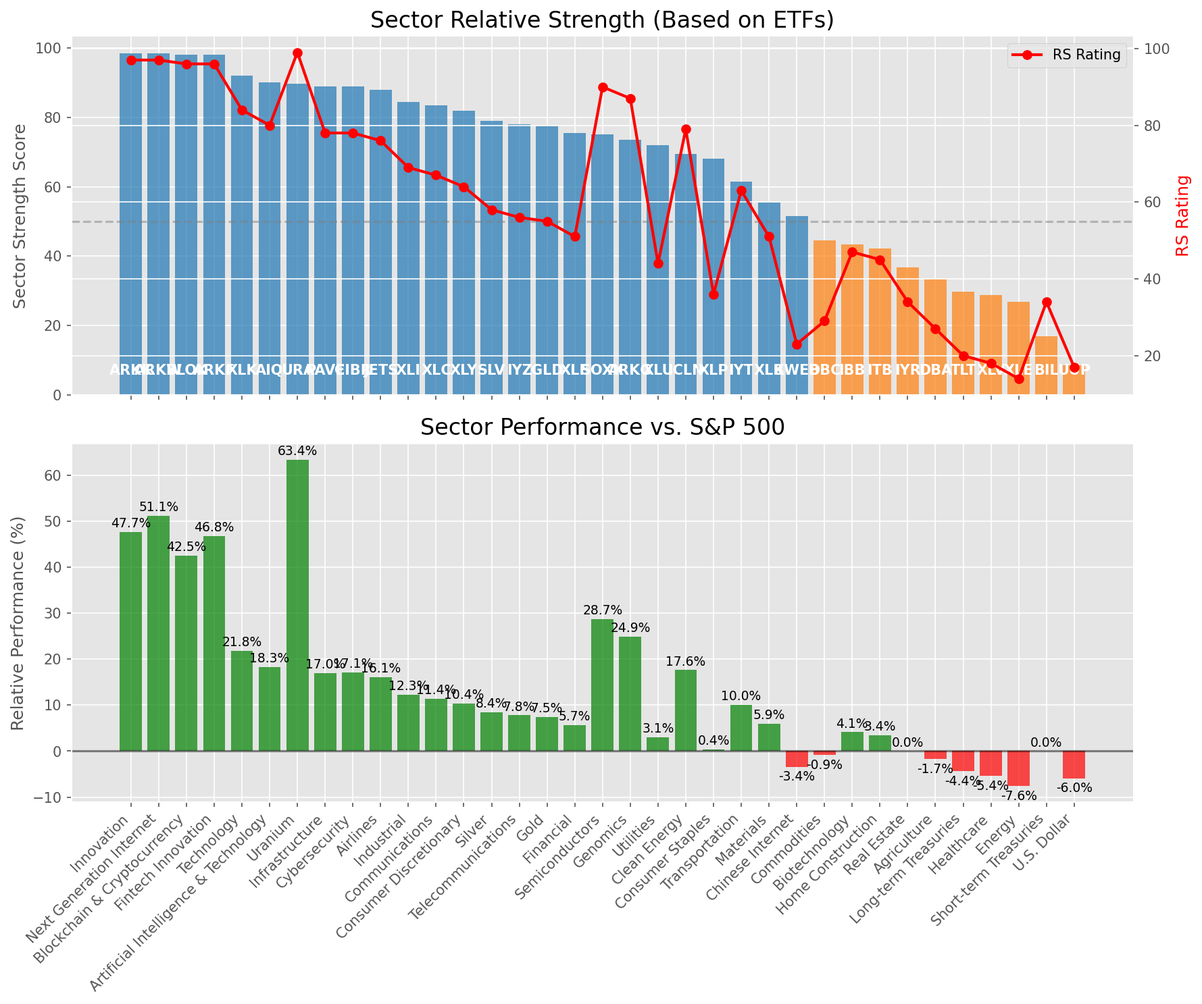
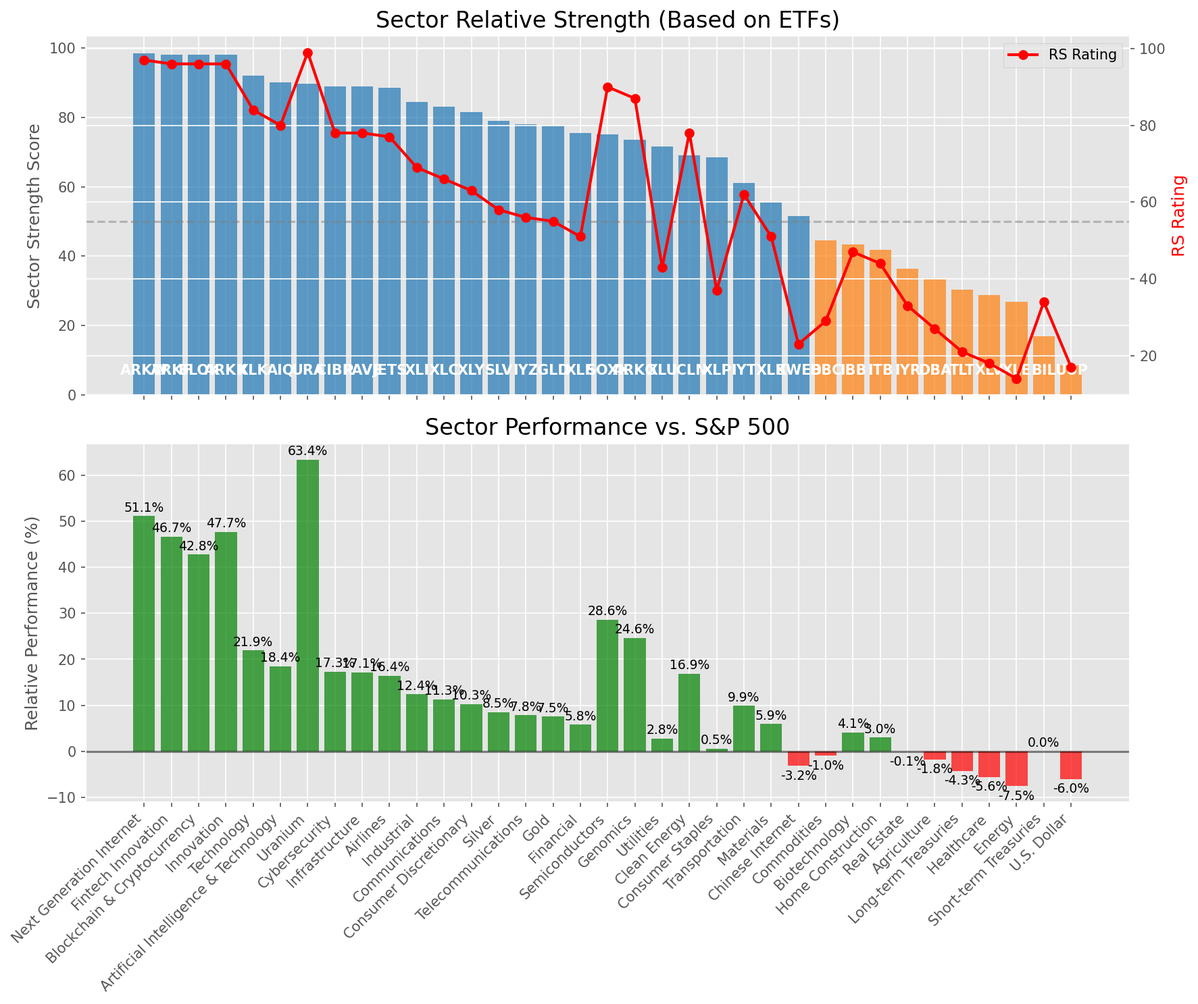
Add market report for 2025-07-02

diff --git a/oneil_relative_strength_report_2025-07-02.md b/oneil_relative_strength_report_2025-07-02.md
@@ -9,11 +9,11 @@
 | Metric | Value |
 |--------|-------|
 | **Market Valuation** | **Overvalued** |
-| **Current Ratio** | 10.19 |
+| **Current Ratio** | 10.20 |
 | **Historical Mean** | 9.37 |
 | **Standard Deviation** | 0.47 |
 | **Z-Score (StdDev from Mean)** | 1.64 |
-| **Total Market Cap** | $305.28 trillion |
+| **Total Market Cap** | $305.51 trillion |
 | **GDP** | $29.96 trillion |
 
 ## **Market Insights**
@@ -49,41 +49,41 @@ Based on William O'Neil's Relative Strength Methodology
 
 | ETF | Strength | RS Rating | Performance | Above Key MAs | Trend | Sector |
 |-----|----------|-----------|-------------|--------------|-------|--------|
-| [ARKK](https://www.tradingview.com/chart/?symbol=ARKK) | 98.5 | 97.0 | 47.68% | 10d ✓, 50d ✓, 200d ✓ | ↗ | Innovation |
-| [ARKW](https://www.tradingview.com/chart/?symbol=ARKW) | 98.5 | 97.0 | 51.14% | 10d ✓, 50d ✓, 200d ✓ | ↗ | Next Generation Internet |
-| [BLOK](https://www.tradingview.com/chart/?symbol=BLOK) | 98.0 | 96.0 | 42.49% | 10d ✓, 50d ✓, 200d ✓ | ↗ | Blockchain & Cryptocurrency |
-| [ARKF](https://www.tradingview.com/chart/?symbol=ARKF) | 98.0 | 96.0 | 46.83% | 10d ✓, 50d ✓, 200d ✓ | ↗ | Fintech Innovation |
-| [XLK](https://www.tradingview.com/chart/?symbol=XLK) | 92.0 | 84.0 | 21.77% | 10d ✓, 50d ✓, 200d ✓ | ↗ | Technology |
-| [AIQ](https://www.tradingview.com/chart/?symbol=AIQ) | 90.0 | 80.0 | 18.26% | 10d ✓, 50d ✓, 200d ✓ | ↗ | Artificial Intelligence & Technology |
+| [ARKW](https://www.tradingview.com/chart/?symbol=ARKW) | 98.5 | 97.0 | 51.12% | 10d ✓, 50d ✓, 200d ✓ | ↗ | Next Generation Internet |
+| [ARKF](https://www.tradingview.com/chart/?symbol=ARKF) | 98.0 | 96.0 | 46.68% | 10d ✓, 50d ✓, 200d ✓ | ↗ | Fintech Innovation |
+| [BLOK](https://www.tradingview.com/chart/?symbol=BLOK) | 98.0 | 96.0 | 42.77% | 10d ✓, 50d ✓, 200d ✓ | ↗ | Blockchain & Cryptocurrency |
+| [ARKK](https://www.tradingview.com/chart/?symbol=ARKK) | 98.0 | 96.0 | 47.66% | 10d ✓, 50d ✓, 200d ✓ | ↗ | Innovation |
+| [XLK](https://www.tradingview.com/chart/?symbol=XLK) | 92.0 | 84.0 | 21.94% | 10d ✓, 50d ✓, 200d ✓ | ↗ | Technology |
+| [AIQ](https://www.tradingview.com/chart/?symbol=AIQ) | 90.0 | 80.0 | 18.44% | 10d ✓, 50d ✓, 200d ✓ | ↗ | Artificial Intelligence & Technology |
 | [URA](https://www.tradingview.com/chart/?symbol=URA) | 89.6 | 99.0 | 63.39% | 10d ✗, 50d ✓, 200d ✓ | ↗ | Uranium |
-| [PAVE](https://www.tradingview.com/chart/?symbol=PAVE) | 89.0 | 78.0 | 16.96% | 10d ✓, 50d ✓, 200d ✓ | ↗ | Infrastructure |
-| [CIBR](https://www.tradingview.com/chart/?symbol=CIBR) | 89.0 | 78.0 | 17.11% | 10d ✓, 50d ✓, 200d ✓ | ↗ | Cybersecurity |
-| [JETS](https://www.tradingview.com/chart/?symbol=JETS) | 88.0 | 76.0 | 16.10% | 10d ✓, 50d ✓, 200d ✓ | ↗ | Airlines |
-| [XLI](https://www.tradingview.com/chart/?symbol=XLI) | 84.5 | 69.0 | 12.28% | 10d ✓, 50d ✓, 200d ✓ | ↗ | Industrial |
-| [XLC](https://www.tradingview.com/chart/?symbol=XLC) | 83.5 | 67.0 | 11.37% | 10d ✓, 50d ✓, 200d ✓ | ↗ | Communications |
-| [XLY](https://www.tradingview.com/chart/?symbol=XLY) | 82.0 | 64.0 | 10.41% | 10d ✓, 50d ✓, 200d ✓ | ↗ | Consumer Discretionary |
-| [SLV](https://www.tradingview.com/chart/?symbol=SLV) | 79.0 | 58.0 | 8.42% | 10d ✓, 50d ✓, 200d ✓ | ↗ | Silver |
-| [IYZ](https://www.tradingview.com/chart/?symbol=IYZ) | 78.0 | 56.0 | 7.79% | 10d ✓, 50d ✓, 200d ✓ | ↗ | Telecommunications |
-| [GLD](https://www.tradingview.com/chart/?symbol=GLD) | 77.5 | 55.0 | 7.47% | 10d ✓, 50d ✓, 200d ✓ | ↗ | Gold |
-| [XLF](https://www.tradingview.com/chart/?symbol=XLF) | 75.5 | 51.0 | 5.66% | 10d ✓, 50d ✓, 200d ✓ | ↗ | Financial |
-| [SOXX](https://www.tradingview.com/chart/?symbol=SOXX) | 75.0 | 90.0 | 28.68% | 10d ✓, 50d ✓, 200d ✓ | ↘ | Semiconductors |
-| [ARKG](https://www.tradingview.com/chart/?symbol=ARKG) | 73.5 | 87.0 | 24.88% | 10d ✓, 50d ✓, 200d ✓ | ↘ | Genomics |
-| [XLU](https://www.tradingview.com/chart/?symbol=XLU) | 72.0 | 44.0 | 3.06% | 10d ✓, 50d ✓, 200d ✓ | ↗ | Utilities |
-| [ICLN](https://www.tradingview.com/chart/?symbol=ICLN) | 69.5 | 79.0 | 17.62% | 10d ✓, 50d ✓, 200d ✓ | ↘ | Clean Energy |
-| [XLP](https://www.tradingview.com/chart/?symbol=XLP) | 68.0 | 36.0 | 0.40% | 10d ✓, 50d ✓, 200d ✓ | ↗ | Consumer Staples |
-| [IYT](https://www.tradingview.com/chart/?symbol=IYT) | 61.5 | 63.0 | 10.02% | 10d ✓, 50d ✓, 200d ✓ | ↘ | Transportation |
-| [XLB](https://www.tradingview.com/chart/?symbol=XLB) | 55.5 | 51.0 | 5.91% | 10d ✓, 50d ✓, 200d ✓ | ↘ | Materials |
-| [KWEB](https://www.tradingview.com/chart/?symbol=KWEB) | 51.6 | 23.0 | -3.44% | 10d ✗, 50d ✓, 200d ✓ | ↗ | Chinese Internet |
-| [DBC](https://www.tradingview.com/chart/?symbol=DBC) | 44.5 | 29.0 | -0.89% | 10d ✓, 50d ✓, 200d ✓ | ↘ | Commodities |
-| [IBB](https://www.tradingview.com/chart/?symbol=IBB) | 43.3 | 47.0 | 4.14% | 10d ✓, 50d ✓, 200d ✗ | ↘ | Biotechnology |
-| [ITB](https://www.tradingview.com/chart/?symbol=ITB) | 42.3 | 45.0 | 3.41% | 10d ✓, 50d ✓, 200d ✗ | ↘ | Home Construction |
-| [IYR](https://www.tradingview.com/chart/?symbol=IYR) | 36.8 | 34.0 | 0.02% | 10d ✓, 50d ✓, 200d ✗ | ↘ | Real Estate |
-| [DBA](https://www.tradingview.com/chart/?symbol=DBA) | 33.5 | 27.0 | -1.71% | 10d ✗, 50d ✗, 200d ✗ | ↗ | Agriculture |
-| [TLT](https://www.tradingview.com/chart/?symbol=TLT) | 29.8 | 20.0 | -4.37% | 10d ✓, 50d ✓, 200d ✗ | ↘ | Long-term Treasuries |
-| [XLV](https://www.tradingview.com/chart/?symbol=XLV) | 28.8 | 18.0 | -5.39% | 10d ✓, 50d ✓, 200d ✗ | ↘ | Healthcare |
-| [XLE](https://www.tradingview.com/chart/?symbol=XLE) | 26.8 | 14.0 | -7.58% | 10d ✓, 50d ✓, 200d ✗ | ↘ | Energy |
+| [CIBR](https://www.tradingview.com/chart/?symbol=CIBR) | 89.0 | 78.0 | 17.32% | 10d ✓, 50d ✓, 200d ✓ | ↗ | Cybersecurity |
+| [PAVE](https://www.tradingview.com/chart/?symbol=PAVE) | 89.0 | 78.0 | 17.11% | 10d ✓, 50d ✓, 200d ✓ | ↗ | Infrastructure |
+| [JETS](https://www.tradingview.com/chart/?symbol=JETS) | 88.5 | 77.0 | 16.39% | 10d ✓, 50d ✓, 200d ✓ | ↗ | Airlines |
+| [XLI](https://www.tradingview.com/chart/?symbol=XLI) | 84.5 | 69.0 | 12.40% | 10d ✓, 50d ✓, 200d ✓ | ↗ | Industrial |
+| [XLC](https://www.tradingview.com/chart/?symbol=XLC) | 83.0 | 66.0 | 11.34% | 10d ✓, 50d ✓, 200d ✓ | ↗ | Communications |
+| [XLY](https://www.tradingview.com/chart/?symbol=XLY) | 81.5 | 63.0 | 10.27% | 10d ✓, 50d ✓, 200d ✓ | ↗ | Consumer Discretionary |
+| [SLV](https://www.tradingview.com/chart/?symbol=SLV) | 79.0 | 58.0 | 8.52% | 10d ✓, 50d ✓, 200d ✓ | ↗ | Silver |
+| [IYZ](https://www.tradingview.com/chart/?symbol=IYZ) | 78.0 | 56.0 | 7.84% | 10d ✓, 50d ✓, 200d ✓ | ↗ | Telecommunications |
+| [GLD](https://www.tradingview.com/chart/?symbol=GLD) | 77.5 | 55.0 | 7.54% | 10d ✓, 50d ✓, 200d ✓ | ↗ | Gold |
+| [XLF](https://www.tradingview.com/chart/?symbol=XLF) | 75.5 | 51.0 | 5.77% | 10d ✓, 50d ✓, 200d ✓ | ↗ | Financial |
+| [SOXX](https://www.tradingview.com/chart/?symbol=SOXX) | 75.0 | 90.0 | 28.61% | 10d ✓, 50d ✓, 200d ✓ | ↘ | Semiconductors |
+| [ARKG](https://www.tradingview.com/chart/?symbol=ARKG) | 73.5 | 87.0 | 24.60% | 10d ✓, 50d ✓, 200d ✓ | ↘ | Genomics |
+| [XLU](https://www.tradingview.com/chart/?symbol=XLU) | 71.5 | 43.0 | 2.76% | 10d ✓, 50d ✓, 200d ✓ | ↗ | Utilities |
+| [ICLN](https://www.tradingview.com/chart/?symbol=ICLN) | 69.0 | 78.0 | 16.88% | 10d ✓, 50d ✓, 200d ✓ | ↘ | Clean Energy |
+| [XLP](https://www.tradingview.com/chart/?symbol=XLP) | 68.5 | 37.0 | 0.53% | 10d ✓, 50d ✓, 200d ✓ | ↗ | Consumer Staples |
+| [IYT](https://www.tradingview.com/chart/?symbol=IYT) | 61.0 | 62.0 | 9.90% | 10d ✓, 50d ✓, 200d ✓ | ↘ | Transportation |
+| [XLB](https://www.tradingview.com/chart/?symbol=XLB) | 55.5 | 51.0 | 5.94% | 10d ✓, 50d ✓, 200d ✓ | ↘ | Materials |
+| [KWEB](https://www.tradingview.com/chart/?symbol=KWEB) | 51.6 | 23.0 | -3.17% | 10d ✗, 50d ✓, 200d ✓ | ↗ | Chinese Internet |
+| [DBC](https://www.tradingview.com/chart/?symbol=DBC) | 44.5 | 29.0 | -0.98% | 10d ✓, 50d ✓, 200d ✓ | ↘ | Commodities |
+| [IBB](https://www.tradingview.com/chart/?symbol=IBB) | 43.3 | 47.0 | 4.11% | 10d ✓, 50d ✓, 200d ✗ | ↘ | Biotechnology |
+| [ITB](https://www.tradingview.com/chart/?symbol=ITB) | 41.8 | 44.0 | 2.99% | 10d ✓, 50d ✓, 200d ✗ | ↘ | Home Construction |
+| [IYR](https://www.tradingview.com/chart/?symbol=IYR) | 36.3 | 33.0 | -0.10% | 10d ✓, 50d ✓, 200d ✗ | ↘ | Real Estate |
+| [DBA](https://www.tradingview.com/chart/?symbol=DBA) | 33.5 | 27.0 | -1.78% | 10d ✗, 50d ✗, 200d ✗ | ↗ | Agriculture |
+| [TLT](https://www.tradingview.com/chart/?symbol=TLT) | 30.3 | 21.0 | -4.27% | 10d ✓, 50d ✓, 200d ✗ | ↘ | Long-term Treasuries |
+| [XLV](https://www.tradingview.com/chart/?symbol=XLV) | 28.8 | 18.0 | -5.57% | 10d ✓, 50d ✓, 200d ✗ | ↘ | Healthcare |
+| [XLE](https://www.tradingview.com/chart/?symbol=XLE) | 26.8 | 14.0 | -7.52% | 10d ✓, 50d ✓, 200d ✗ | ↘ | Energy |
 | [BIL](https://www.tradingview.com/chart/?symbol=BIL) | 17.0 | 34.0 | 0.02% | 10d ✗, 50d ✗, 200d ✗ | ↘ | Short-term Treasuries |
-| [UUP](https://www.tradingview.com/chart/?symbol=UUP) | 8.5 | 17.0 | -5.95% | 10d ✗, 50d ✗, 200d ✗ | ↘ | U.S. Dollar |
+| [UUP](https://www.tradingview.com/chart/?symbol=UUP) | 8.5 | 17.0 | -6.02% | 10d ✗, 50d ✗, 200d ✗ | ↘ | U.S. Dollar |
 
 ### **Sector ETF Performance Interpretation**
 
@@ -98,131 +98,126 @@ This table shows the relative strength metrics for different market sectors base
 
 ### **Current Sector Leadership**
 
-The current market leadership is coming from the following sectors: **Innovation, Next Generation Internet, Blockchain & Cryptocurrency**.
+The current market leadership is coming from the following sectors: **Next Generation Internet, Fintech Innovation, Blockchain & Cryptocurrency**.
 
-The **Innovation** sector (represented by **ARKK**) is showing particularly strong relative strength with an RS rating of 97.0 and performance of 47.68% vs. the S&P 500. This sector is trading above its 10-day, 50-day, 200-day moving average(s). Investors should consider focusing on high RS stocks within these leading sectors for potential outperformance.
+The **Next Generation Internet** sector (represented by **ARKW**) is showing particularly strong relative strength with an RS rating of 97.0 and performance of 51.12% vs. the S&P 500. This sector is trading above its 10-day, 50-day, 200-day moving average(s). Investors should consider focusing on high RS stocks within these leading sectors for potential outperformance.
 
 ---
 
 ## **Buy Recommendations**
 
-The following 53 stocks show exceptional relative strength:
+The following 56 stocks show exceptional relative strength:
 
 | RS Rating | Buy Score | Current Price | Chart | Name | Ticker |
 |-----------|-----------|---------------|-------|------|--------|
-| 100 | 100 | $97.44 | [Chart](https://www.tradingview.com/chart/?symbol=HOOD) | Robinhood Markets, Inc. Class A Common Stock | HOOD |
-| 100 | 100 | $144.17 | [Chart](https://www.tradingview.com/chart/?symbol=LMB) | Limbach Holdings, Inc Common Stock | LMB |
-| 100 | 100 | $153.21 | [Chart](https://www.tradingview.com/chart/?symbol=CLS) | Celestica, Inc. | CLS |
-| 100 | 100 | $172.62 | [Chart](https://www.tradingview.com/chart/?symbol=SEZL) | Sezzle Inc. Common Stock | SEZL |
-| 100 | 100 | $271.79 | [Chart](https://www.tradingview.com/chart/?symbol=DAVE) | Dave Inc. Class A Common Stock | DAVE |
-| 99 | 100 | $220.97 | [Chart](https://www.tradingview.com/chart/?symbol=JBL) | Jabil Inc. | JBL |
-| 99 | 100 | $75.13 | [Chart](https://www.tradingview.com/chart/?symbol=ODD) | ODDITY Tech Ltd. Class A Ordinary Shares | ODD |
-| 99 | 100 | $43.88 | [Chart](https://www.tradingview.com/chart/?symbol=FARO) | Faro Technologies Inc | FARO |
-| 99 | 100 | $343.47 | [Chart](https://www.tradingview.com/chart/?symbol=CVNA) | Carvana Co. | CVNA |
-| 98 | 100 | $324.19 | [Chart](https://www.tradingview.com/chart/?symbol=RCL) | Royal Caribbean Group | RCL |
-| 97 | 100 | $273.38 | [Chart](https://www.tradingview.com/chart/?symbol=CRS) | Carpenter Technology Corp | CRS |
-| 96 | 100 | $38.12 | [Chart](https://www.tradingview.com/chart/?symbol=AS) | Amer Sports, Inc. | AS |
-| 95 | 100 | $21.28 | [Chart](https://www.tradingview.com/chart/?symbol=MAG) | MAG Silver Corp. | MAG |
-| 94 | 100 | $45.07 | [Chart](https://www.tradingview.com/chart/?symbol=DRS) | Leonardo DRS, Inc. Common Stock | DRS |
-| 94 | 100 | $73.02 | [Chart](https://www.tradingview.com/chart/?symbol=URBN) | Urban Outfitters Inc | URBN |
-| 93 | 100 | $52.64 | [Chart](https://www.tradingview.com/chart/?symbol=BBW) | Build-A-Bear Workshop, Inc. | BBW |
-| 93 | 100 | $57.73 | [Chart](https://www.tradingview.com/chart/?symbol=IBKR) | Interactive Brokers Group, Inc. Class A Common Stock | IBKR |
-| 93 | 100 | $66.97 | [Chart](https://www.tradingview.com/chart/?symbol=RYTM) | Rhythm Pharmaceuticals, Inc. Common Stock | RYTM |
-| 93 | 100 | $17.74 | [Chart](https://www.tradingview.com/chart/?symbol=DAN) | Dana Incorporated | DAN |
-| 93 | 100 | $101.25 | [Chart](https://www.tradingview.com/chart/?symbol=SANM) | Sanmina  Corp | SANM |
-| 92 | 100 | $247.00 | [Chart](https://www.tradingview.com/chart/?symbol=WWD) | Woodward, Inc. | WWD |
-| 92 | 100 | $42.16 | [Chart](https://www.tradingview.com/chart/?symbol=KD) | Kyndryl Holdings, Inc. | KD |
-| 91 | 100 | $237.16 | [Chart](https://www.tradingview.com/chart/?symbol=DASH) | DoorDash, Inc. Class A Common Stock | DASH |
-| 90 | 100 | $62.20 | [Chart](https://www.tradingview.com/chart/?symbol=IBIT) | iShares Bitcoin Trust ETF | IBIT |
-| 90 | 100 | $104.81 | [Chart](https://www.tradingview.com/chart/?symbol=JCI) | Johnson Controls International plc | JCI |
-| 90 | 100 | $65.41 | [Chart](https://www.tradingview.com/chart/?symbol=CAKE) | Cheesecake Factory (The) | CAKE |
-| 89 | 100 | $25.52 | [Chart](https://www.tradingview.com/chart/?symbol=KAR) | OPENLANE, Inc | KAR |
-| 89 | 100 | $27.41 | [Chart](https://www.tradingview.com/chart/?symbol=SRAD) | Sportradar Group AG Class A Ordinary Shares | SRAD |
-| 88 | 99 | $132.89 | [Chart](https://www.tradingview.com/chart/?symbol=NTES) | NetEase, inc. | NTES |
-| 87 | 99 | $155.00 | [Chart](https://www.tradingview.com/chart/?symbol=COOP) | Mr. Cooper Group Inc. Common Stock | COOP |
-| 88 | 98 | $85.37 | [Chart](https://www.tradingview.com/chart/?symbol=SLNO) | Soleno Therapeutics, Inc. Common Stock | SLNO |
-| 86 | 97 | $219.19 | [Chart](https://www.tradingview.com/chart/?symbol=COF) | Capital One Financial | COF |
-| 86 | 97 | $282.36 | [Chart](https://www.tradingview.com/chart/?symbol=VEEV) | Veeva Systems Inc. | VEEV |
-| 84 | 97 | $44.15 | [Chart](https://www.tradingview.com/chart/?symbol=EXEL) | Exelixis Inc | EXEL |
-| 87 | 96 | $48.59 | [Chart](https://www.tradingview.com/chart/?symbol=SIL) | Global X Silver Miners ETF (NEW) | SIL |
-| 86 | 96 | $250.81 | [Chart](https://www.tradingview.com/chart/?symbol=WTS) | Watts Water Technologies, Inc. Class A | WTS |
-| 83 | 96 | $29.02 | [Chart](https://www.tradingview.com/chart/?symbol=DB) | Deutsche Bank Aktiengesellschaft | DB |
-| 83 | 96 | $182.18 | [Chart](https://www.tradingview.com/chart/?symbol=EAT) | Brinker International, Inc. | EAT |
-| 82 | 96 | $92.10 | [Chart](https://www.tradingview.com/chart/?symbol=SNEX) | StoneX Group Inc. Common Stock | SNEX |
-| 83 | 94 | $224.34 | [Chart](https://www.tradingview.com/chart/?symbol=BAP) | Credicorp LTD | BAP |
-| 83 | 94 | $76.70 | [Chart](https://www.tradingview.com/chart/?symbol=CTVA) | Corteva, Inc. Common Stock | CTVA |
-| 83 | 94 | $5672.71 | [Chart](https://www.tradingview.com/chart/?symbol=BKNG) | Booking Holdings Inc. Common Stock | BKNG |
-| 81 | 94 | $21.12 | [Chart](https://www.tradingview.com/chart/?symbol=KT) | KT Corp. | KT |
-| 83 | 93 | $106.27 | [Chart](https://www.tradingview.com/chart/?symbol=PSMT) | Pricesmart Inc | PSMT |
-| 83 | 93 | $59.79 | [Chart](https://www.tradingview.com/chart/?symbol=NTR) | Nutrien Ltd. Common Shares | NTR |
-| 82 | 93 | $291.62 | [Chart](https://www.tradingview.com/chart/?symbol=JPM) | JPMorgan Chase & Co. | JPM |
-| 80 | 93 | $29.08 | [Chart](https://www.tradingview.com/chart/?symbol=CAE) | CAE INC | CAE |
-| 82 | 92 | $50.73 | [Chart](https://www.tradingview.com/chart/?symbol=GH) | Guardant Health, Inc. Common Stock | GH |
-| 81 | 92 | $184.09 | [Chart](https://www.tradingview.com/chart/?symbol=ITA) | iShares U.S. Aerospace & Defense ETF | ITA |
-| 80 | 92 | $86.31 | [Chart](https://www.tradingview.com/chart/?symbol=TPR) | Tapestry, Inc. Common Stock | TPR |
-| 81 | 91 | $139.68 | [Chart](https://www.tradingview.com/chart/?symbol=PPA) | Invesco Aerospace & Defense ETF | PPA |
-| 81 | 91 | $111.24 | [Chart](https://www.tradingview.com/chart/?symbol=SPMO) | Invesco S&P 500 Momentum ETF | SPMO |
-| 81 | 91 | $91.76 | [Chart](https://www.tradingview.com/chart/?symbol=SEIC) | SEI Investments Co | SEIC |
+| 100 | 100 | $172.30 | [Chart](https://www.tradingview.com/chart/?symbol=SEZL) | Sezzle Inc. Common Stock | SEZL |
+| 100 | 100 | $145.77 | [Chart](https://www.tradingview.com/chart/?symbol=LMB) | Limbach Holdings, Inc Common Stock | LMB |
+| 100 | 100 | $154.90 | [Chart](https://www.tradingview.com/chart/?symbol=CLS) | Celestica, Inc. | CLS |
+| 100 | 100 | $270.03 | [Chart](https://www.tradingview.com/chart/?symbol=DAVE) | Dave Inc. Class A Common Stock | DAVE |
+| 100 | 100 | $97.98 | [Chart](https://www.tradingview.com/chart/?symbol=HOOD) | Robinhood Markets, Inc. Class A Common Stock | HOOD |
+| 99 | 100 | $343.39 | [Chart](https://www.tradingview.com/chart/?symbol=CVNA) | Carvana Co. | CVNA |
+| 99 | 100 | $75.11 | [Chart](https://www.tradingview.com/chart/?symbol=ODD) | ODDITY Tech Ltd. Class A Ordinary Shares | ODD |
+| 99 | 100 | $221.89 | [Chart](https://www.tradingview.com/chart/?symbol=JBL) | Jabil Inc. | JBL |
+| 99 | 100 | $43.92 | [Chart](https://www.tradingview.com/chart/?symbol=FARO) | Faro Technologies Inc | FARO |
+| 98 | 100 | $326.10 | [Chart](https://www.tradingview.com/chart/?symbol=RCL) | Royal Caribbean Group | RCL |
+| 97 | 100 | $275.05 | [Chart](https://www.tradingview.com/chart/?symbol=CRS) | Carpenter Technology Corp | CRS |
+| 97 | 100 | $43.28 | [Chart](https://www.tradingview.com/chart/?symbol=KTOS) | Kratos Defense & Security Solutions, Inc. | KTOS |
+| 96 | 100 | $38.19 | [Chart](https://www.tradingview.com/chart/?symbol=AS) | Amer Sports, Inc. | AS |
+| 95 | 100 | $21.37 | [Chart](https://www.tradingview.com/chart/?symbol=MAG) | MAG Silver Corp. | MAG |
+| 95 | 100 | $1284.86 | [Chart](https://www.tradingview.com/chart/?symbol=NFLX) | NetFlix Inc | NFLX |
+| 95 | 100 | $73.61 | [Chart](https://www.tradingview.com/chart/?symbol=URBN) | Urban Outfitters Inc | URBN |
+| 94 | 100 | $45.31 | [Chart](https://www.tradingview.com/chart/?symbol=DRS) | Leonardo DRS, Inc. Common Stock | DRS |
+| 94 | 100 | $496.10 | [Chart](https://www.tradingview.com/chart/?symbol=CRWD) | CrowdStrike Holdings, Inc. Class A Common Stock | CRWD |
+| 93 | 100 | $58.22 | [Chart](https://www.tradingview.com/chart/?symbol=IBKR) | Interactive Brokers Group, Inc. Class A Common Stock | IBKR |
+| 93 | 100 | $17.78 | [Chart](https://www.tradingview.com/chart/?symbol=DAN) | Dana Incorporated | DAN |
+| 93 | 100 | $52.89 | [Chart](https://www.tradingview.com/chart/?symbol=BBW) | Build-A-Bear Workshop, Inc. | BBW |
+| 93 | 100 | $66.92 | [Chart](https://www.tradingview.com/chart/?symbol=RYTM) | Rhythm Pharmaceuticals, Inc. Common Stock | RYTM |
+| 93 | 100 | $101.24 | [Chart](https://www.tradingview.com/chart/?symbol=SANM) | Sanmina  Corp | SANM |
+| 93 | 100 | $248.82 | [Chart](https://www.tradingview.com/chart/?symbol=WWD) | Woodward, Inc. | WWD |
+| 92 | 100 | $42.37 | [Chart](https://www.tradingview.com/chart/?symbol=KD) | Kyndryl Holdings, Inc. | KD |
+| 91 | 100 | $238.80 | [Chart](https://www.tradingview.com/chart/?symbol=DASH) | DoorDash, Inc. Class A Common Stock | DASH |
+| 91 | 100 | $62.42 | [Chart](https://www.tradingview.com/chart/?symbol=IBIT) | iShares Bitcoin Trust ETF | IBIT |
+| 90 | 100 | $65.27 | [Chart](https://www.tradingview.com/chart/?symbol=CAKE) | Cheesecake Factory (The) | CAKE |
+| 90 | 100 | $105.07 | [Chart](https://www.tradingview.com/chart/?symbol=JCI) | Johnson Controls International plc | JCI |
+| 89 | 100 | $27.82 | [Chart](https://www.tradingview.com/chart/?symbol=SRAD) | Sportradar Group AG Class A Ordinary Shares | SRAD |
+| 89 | 100 | $25.53 | [Chart](https://www.tradingview.com/chart/?symbol=KAR) | OPENLANE, Inc | KAR |
+| 88 | 98 | $86.21 | [Chart](https://www.tradingview.com/chart/?symbol=SLNO) | Soleno Therapeutics, Inc. Common Stock | SLNO |
+| 87 | 98 | $133.00 | [Chart](https://www.tradingview.com/chart/?symbol=NTES) | NetEase, inc. | NTES |
+| 86 | 97 | $282.61 | [Chart](https://www.tradingview.com/chart/?symbol=VEEV) | Veeva Systems Inc. | VEEV |
+| 85 | 97 | $153.51 | [Chart](https://www.tradingview.com/chart/?symbol=COOP) | Mr. Cooper Group Inc. Common Stock | COOP |
+| 84 | 97 | $44.30 | [Chart](https://www.tradingview.com/chart/?symbol=EXEL) | Exelixis Inc | EXEL |
+| 83 | 97 | $92.71 | [Chart](https://www.tradingview.com/chart/?symbol=SNEX) | StoneX Group Inc. Common Stock | SNEX |
+| 87 | 96 | $48.71 | [Chart](https://www.tradingview.com/chart/?symbol=SIL) | Global X Silver Miners ETF (NEW) | SIL |
+| 87 | 96 | $46.66 | [Chart](https://www.tradingview.com/chart/?symbol=AU) | AngloGold Ashanti plc | AU |
+| 85 | 96 | $218.81 | [Chart](https://www.tradingview.com/chart/?symbol=COF) | Capital One Financial | COF |
+| 83 | 96 | $181.73 | [Chart](https://www.tradingview.com/chart/?symbol=EAT) | Brinker International, Inc. | EAT |
+| 83 | 96 | $29.09 | [Chart](https://www.tradingview.com/chart/?symbol=DB) | Deutsche Bank Aktiengesellschaft | DB |
+| 85 | 95 | $252.69 | [Chart](https://www.tradingview.com/chart/?symbol=WTS) | Watts Water Technologies, Inc. Class A | WTS |
+| 84 | 95 | $5701.76 | [Chart](https://www.tradingview.com/chart/?symbol=BKNG) | Booking Holdings Inc. Common Stock | BKNG |
+| 84 | 95 | $226.13 | [Chart](https://www.tradingview.com/chart/?symbol=BAP) | Credicorp LTD | BAP |
+| 82 | 95 | $21.20 | [Chart](https://www.tradingview.com/chart/?symbol=KT) | KT Corp. | KT |
+| 84 | 94 | $106.55 | [Chart](https://www.tradingview.com/chart/?symbol=PSMT) | Pricesmart Inc | PSMT |
+| 83 | 94 | $77.00 | [Chart](https://www.tradingview.com/chart/?symbol=CTVA) | Corteva, Inc. Common Stock | CTVA |
+| 81 | 94 | $29.28 | [Chart](https://www.tradingview.com/chart/?symbol=CAE) | CAE INC | CAE |
+| 83 | 93 | $59.99 | [Chart](https://www.tradingview.com/chart/?symbol=NTR) | Nutrien Ltd. Common Shares | NTR |
+| 82 | 93 | $184.73 | [Chart](https://www.tradingview.com/chart/?symbol=ITA) | iShares U.S. Aerospace & Defense ETF | ITA |
+| 82 | 93 | $292.00 | [Chart](https://www.tradingview.com/chart/?symbol=JPM) | JPMorgan Chase & Co. | JPM |
+| 80 | 92 | $86.48 | [Chart](https://www.tradingview.com/chart/?symbol=TPR) | Tapestry, Inc. Common Stock | TPR |
+| 81 | 91 | $91.96 | [Chart](https://www.tradingview.com/chart/?symbol=SEIC) | SEI Investments Co | SEIC |
+| 81 | 91 | $111.36 | [Chart](https://www.tradingview.com/chart/?symbol=SPMO) | Invesco S&P 500 Momentum ETF | SPMO |
+| 81 | 91 | $140.23 | [Chart](https://www.tradingview.com/chart/?symbol=PPA) | Invesco Aerospace & Defense ETF | PPA |
 
 ---
 
 
 ## **Sell Recommendations**
 
-The following 51 stocks show deteriorating relative strength:
+The following 43 stocks show deteriorating relative strength:
 
 | RS Rating | Sell Score | Current Price | Chart | Name | Ticker |
 |-----------|------------|---------------|-------|------|--------|
-| 1 | 100 | $14.59 | [Chart](https://www.tradingview.com/chart/?symbol=NVDS) | Investment Managers Series Trust II Tradr 1.5X Short NVDA Daily ETF | NVDS |
+| 1 | 100 | $14.52 | [Chart](https://www.tradingview.com/chart/?symbol=NVDS) | Investment Managers Series Trust II Tradr 1.5X Short NVDA Daily ETF | NVDS |
+| 1 | 100 | $26.54 | [Chart](https://www.tradingview.com/chart/?symbol=TECS) | Direxion Daily Technology Bear 3x Shares | TECS |
 | 1 | 100 | $10.09 | [Chart](https://www.tradingview.com/chart/?symbol=HIBS) | Direxion Daily S&P 500 High Beta Bear 3X Shares | HIBS |
-| 1 | 100 | $26.71 | [Chart](https://www.tradingview.com/chart/?symbol=TECS) | Direxion Daily Technology Bear 3x Shares | TECS |
-| 2 | 100 | $25.45 | [Chart](https://www.tradingview.com/chart/?symbol=QID) | ProShares UltraShort QQQ | QID |
-| 2 | 100 | $43.72 | [Chart](https://www.tradingview.com/chart/?symbol=LINE) | Lineage, Inc. Common Stock | LINE |
-| 2 | 100 | $19.30 | [Chart](https://www.tradingview.com/chart/?symbol=BITI) | ProShares Short Bitcoin ETF | BITI |
-| 2 | 100 | $24.55 | [Chart](https://www.tradingview.com/chart/?symbol=CRTO) | Criteo S.A. | CRTO |
-| 3 | 100 | $40.34 | [Chart](https://www.tradingview.com/chart/?symbol=SDOW) | ProShares UltraPro Short Dow 30 | SDOW |
-| 3 | 100 | $10.61 | [Chart](https://www.tradingview.com/chart/?symbol=IMXI) | International Money Express, Inc. | IMXI |
-| 4 | 100 | $355.33 | [Chart](https://www.tradingview.com/chart/?symbol=ELV) | Elevance Health, Inc. | ELV |
-| 4 | 100 | $79.09 | [Chart](https://www.tradingview.com/chart/?symbol=LNTH) | Lantheus Holdings, Inc | LNTH |
-| 4 | 100 | $12.45 | [Chart](https://www.tradingview.com/chart/?symbol=VFC) | V.F. Corporation | VFC |
-| 5 | 100 | $24.68 | [Chart](https://www.tradingview.com/chart/?symbol=ASTH) | Astrana Health Inc. Common Stock | ASTH |
-| 5 | 100 | $33.75 | [Chart](https://www.tradingview.com/chart/?symbol=PSQ) | ProShares Short QQQ | PSQ |
-| 6 | 100 | $10.20 | [Chart](https://www.tradingview.com/chart/?symbol=LBTYK) | Liberty Global Ltd. Class C Common Shares | LBTYK |
-| 6 | 100 | $103.73 | [Chart](https://www.tradingview.com/chart/?symbol=PDD) | PDD Holdings Inc. American Depositary Shares | PDD |
+| 2 | 100 | $25.40 | [Chart](https://www.tradingview.com/chart/?symbol=QID) | ProShares UltraShort QQQ | QID |
+| 2 | 100 | $19.23 | [Chart](https://www.tradingview.com/chart/?symbol=BITI) | ProShares Short Bitcoin ETF | BITI |
+| 2 | 100 | $24.47 | [Chart](https://www.tradingview.com/chart/?symbol=CRTO) | Criteo S.A. | CRTO |
+| 2 | 100 | $43.74 | [Chart](https://www.tradingview.com/chart/?symbol=LINE) | Lineage, Inc. Common Stock | LINE |
+| 3 | 100 | $40.36 | [Chart](https://www.tradingview.com/chart/?symbol=SDOW) | ProShares UltraPro Short Dow 30 | SDOW |
+| 4 | 100 | $79.62 | [Chart](https://www.tradingview.com/chart/?symbol=LNTH) | Lantheus Holdings, Inc | LNTH |
+| 4 | 100 | $350.25 | [Chart](https://www.tradingview.com/chart/?symbol=ELV) | Elevance Health, Inc. | ELV |
+| 4 | 100 | $12.48 | [Chart](https://www.tradingview.com/chart/?symbol=VFC) | V.F. Corporation | VFC |
+| 5 | 100 | $33.71 | [Chart](https://www.tradingview.com/chart/?symbol=PSQ) | ProShares Short QQQ | PSQ |
+| 5 | 100 | $24.65 | [Chart](https://www.tradingview.com/chart/?symbol=ASTH) | Astrana Health Inc. Common Stock | ASTH |
+| 6 | 100 | $103.97 | [Chart](https://www.tradingview.com/chart/?symbol=PDD) | PDD Holdings Inc. American Depositary Shares | PDD |
+| 6 | 100 | $10.21 | [Chart](https://www.tradingview.com/chart/?symbol=LBTYK) | Liberty Global Ltd. Class C Common Shares | LBTYK |
 | 7 | 100 | $23.79 | [Chart](https://www.tradingview.com/chart/?symbol=DXD) | ProShares UltraShort Dow 30 | DXD |
-| 8 | 100 | $35.52 | [Chart](https://www.tradingview.com/chart/?symbol=SARK) | Investment Managers Series Trust II Tradr 1X Short Innovation Daily ETF | SARK |
-| 9 | 100 | $39.55 | [Chart](https://www.tradingview.com/chart/?symbol=SH) | ProShares Short S&P500 | SH |
-| 10 | 100 | $13.88 | [Chart](https://www.tradingview.com/chart/?symbol=OCSL) | Oaktree Specialty Lending Corporation | OCSL |
-| 12 | 100 | $18.02 | [Chart](https://www.tradingview.com/chart/?symbol=ZTO) | ZTO Express (Cayman) Inc. American Depositary Shares, each representing one Class A ordinary share | ZTO |
+| 7 | 100 | $25.14 | [Chart](https://www.tradingview.com/chart/?symbol=ZSL) | ProShares UltraShort Silver | ZSL |
+| 8 | 100 | $35.56 | [Chart](https://www.tradingview.com/chart/?symbol=SARK) | Investment Managers Series Trust II Tradr 1X Short Innovation Daily ETF | SARK |
+| 9 | 100 | $39.53 | [Chart](https://www.tradingview.com/chart/?symbol=SH) | ProShares Short S&P500 | SH |
 | 5 | 99 | $17.25 | [Chart](https://www.tradingview.com/chart/?symbol=CODI) | Compass Diversified | CODI |
-| 9 | 98 | $25.94 | [Chart](https://www.tradingview.com/chart/?symbol=ZSL) | ProShares UltraShort Silver | ZSL |
-| 10 | 98 | $84.68 | [Chart](https://www.tradingview.com/chart/?symbol=KSPI) | Joint Stock Company Kaspi.kz American Depository Shares | KSPI |
-| 14 | 98 | $84.93 | [Chart](https://www.tradingview.com/chart/?symbol=SIGI) | Selective Insurance Group | SIGI |
+| 11 | 99 | $13.92 | [Chart](https://www.tradingview.com/chart/?symbol=OCSL) | Oaktree Specialty Lending Corporation | OCSL |
+| 10 | 98 | $84.38 | [Chart](https://www.tradingview.com/chart/?symbol=KSPI) | Joint Stock Company Kaspi.kz American Depository Shares | KSPI |
+| 14 | 98 | $85.06 | [Chart](https://www.tradingview.com/chart/?symbol=SIGI) | Selective Insurance Group | SIGI |
 | 5 | 96 | $24.77 | [Chart](https://www.tradingview.com/chart/?symbol=DRV) | Direxion Daily Real Estate Bear 3X Shares | DRV |
-| 10 | 95 | $18.20 | [Chart](https://www.tradingview.com/chart/?symbol=DJT) | Trump Media & Technology Group Corp. Common Stock | DJT |
-| 11 | 95 | $53.78 | [Chart](https://www.tradingview.com/chart/?symbol=CNMD) | CONMED Corporation | CNMD |
-| 11 | 93 | $49.30 | [Chart](https://www.tradingview.com/chart/?symbol=SNY) | Sanofi American Depositary Shares (Each representing one-half of one ordinary share) | SNY |
-| 16 | 93 | $25.26 | [Chart](https://www.tradingview.com/chart/?symbol=DOG) | ProShares Short Dow30 | DOG |
-| 17 | 93 | $86.37 | [Chart](https://www.tradingview.com/chart/?symbol=BIDU) | Baidu, Inc. | BIDU |
-| 9 | 92 | $67.81 | [Chart](https://www.tradingview.com/chart/?symbol=WK) | Workiva Inc. | WK |
-| 14 | 91 | $132.36 | [Chart](https://www.tradingview.com/chart/?symbol=KMB) | Kimberly-Clark Corp. | KMB |
-| 10 | 90 | $40.60 | [Chart](https://www.tradingview.com/chart/?symbol=UDR) | UDR, Inc. | UDR |
-| 23 | 90 | $18.01 | [Chart](https://www.tradingview.com/chart/?symbol=S) | SentinelOne, Inc. | S |
-| 16 | 89 | $19.07 | [Chart](https://www.tradingview.com/chart/?symbol=MSDL) | Morgan Stanley Direct Lending Fund | MSDL |
-| 20 | 89 | $21.86 | [Chart](https://www.tradingview.com/chart/?symbol=KIDS) | OrthoPediatrics Corp. Common Stock | KIDS |
-| 23 | 86 | $778.02 | [Chart](https://www.tradingview.com/chart/?symbol=LLY) | Eli Lilly & Co. | LLY |
-| 21 | 85 | $294.84 | [Chart](https://www.tradingview.com/chart/?symbol=UTHR) | United Therapeutics Corp | UTHR |
-| 20 | 83 | $76.29 | [Chart](https://www.tradingview.com/chart/?symbol=CNS) | Cohen & Steers Inc. | CNS |
-| 20 | 83 | $15.21 | [Chart](https://www.tradingview.com/chart/?symbol=PLSE) | Pulse Biosciences, Inc Common Stock (DE) | PLSE |
-| 22 | 83 | $301.57 | [Chart](https://www.tradingview.com/chart/?symbol=ACN) | Accenture PLC | ACN |
-| 24 | 83 | $29.73 | [Chart](https://www.tradingview.com/chart/?symbol=CRNX) | Crinetics Pharmaceuticals, Inc. | CRNX |
-| 28 | 83 | $195.74 | [Chart](https://www.tradingview.com/chart/?symbol=RGA) | Reinsurance Group of America, Incorporated | RGA |
-| 19 | 81 | $55.34 | [Chart](https://www.tradingview.com/chart/?symbol=DAY) | Dayforce, Inc. | DAY |
-| 22 | 80 | $69.02 | [Chart](https://www.tradingview.com/chart/?symbol=BRC) | Brady Corporation | BRC |
-| 26 | 80 | $12.99 | [Chart](https://www.tradingview.com/chart/?symbol=RIVN) | Rivian Automotive, Inc. Class A Common Stock | RIVN |
-| 29 | 76 | $127.11 | [Chart](https://www.tradingview.com/chart/?symbol=RGEN) | Repligen Corp | RGEN |
-| 33 | 75 | $36.19 | [Chart](https://www.tradingview.com/chart/?symbol=WPP) | WPP PLC | WPP |
-| 34 | 68 | $23.11 | [Chart](https://www.tradingview.com/chart/?symbol=IBHF) | iShares iBonds 2026 Term High Yield and Income ETF | IBHF |
+| 10 | 95 | $18.19 | [Chart](https://www.tradingview.com/chart/?symbol=DJT) | Trump Media & Technology Group Corp. Common Stock | DJT |
+| 12 | 93 | $54.22 | [Chart](https://www.tradingview.com/chart/?symbol=CNMD) | CONMED Corporation | CNMD |
+| 11 | 92 | $49.31 | [Chart](https://www.tradingview.com/chart/?symbol=SNY) | Sanofi American Depositary Shares (Each representing one-half of one ordinary share) | SNY |
+| 16 | 92 | $25.27 | [Chart](https://www.tradingview.com/chart/?symbol=DOG) | ProShares Short Dow30 | DOG |
+| 18 | 92 | $86.44 | [Chart](https://www.tradingview.com/chart/?symbol=BIDU) | Baidu, Inc. | BIDU |
+| 10 | 90 | $67.85 | [Chart](https://www.tradingview.com/chart/?symbol=WK) | Workiva Inc. | WK |
+| 14 | 89 | $132.36 | [Chart](https://www.tradingview.com/chart/?symbol=KMB) | Kimberly-Clark Corp. | KMB |
+| 17 | 87 | $19.15 | [Chart](https://www.tradingview.com/chart/?symbol=MSDL) | Morgan Stanley Direct Lending Fund | MSDL |
+| 25 | 87 | $18.13 | [Chart](https://www.tradingview.com/chart/?symbol=S) | SentinelOne, Inc. | S |
+| 23 | 85 | $779.28 | [Chart](https://www.tradingview.com/chart/?symbol=LLY) | Eli Lilly & Co. | LLY |
+| 22 | 82 | $295.22 | [Chart](https://www.tradingview.com/chart/?symbol=UTHR) | United Therapeutics Corp | UTHR |
+| 22 | 82 | $302.29 | [Chart](https://www.tradingview.com/chart/?symbol=ACN) | Accenture PLC | ACN |
+| 21 | 81 | $15.32 | [Chart](https://www.tradingview.com/chart/?symbol=PLSE) | Pulse Biosciences, Inc Common Stock (DE) | PLSE |
+| 23 | 81 | $12.87 | [Chart](https://www.tradingview.com/chart/?symbol=RIVN) | Rivian Automotive, Inc. Class A Common Stock | RIVN |
+| 29 | 80 | $196.09 | [Chart](https://www.tradingview.com/chart/?symbol=RGA) | Reinsurance Group of America, Incorporated | RGA |
+| 27 | 77 | $69.26 | [Chart](https://www.tradingview.com/chart/?symbol=BRC) | Brady Corporation | BRC |
+| 28 | 77 | $126.96 | [Chart](https://www.tradingview.com/chart/?symbol=RGEN) | Repligen Corp | RGEN |
+| 32 | 76 | $36.10 | [Chart](https://www.tradingview.com/chart/?symbol=WPP) | WPP PLC | WPP |
 | 33 | 67 | $22.85 | [Chart](https://www.tradingview.com/chart/?symbol=IBTG) | iShares iBonds Dec 2026 Term Treasury ETF | IBTG |
 
 ## **Methodology**
